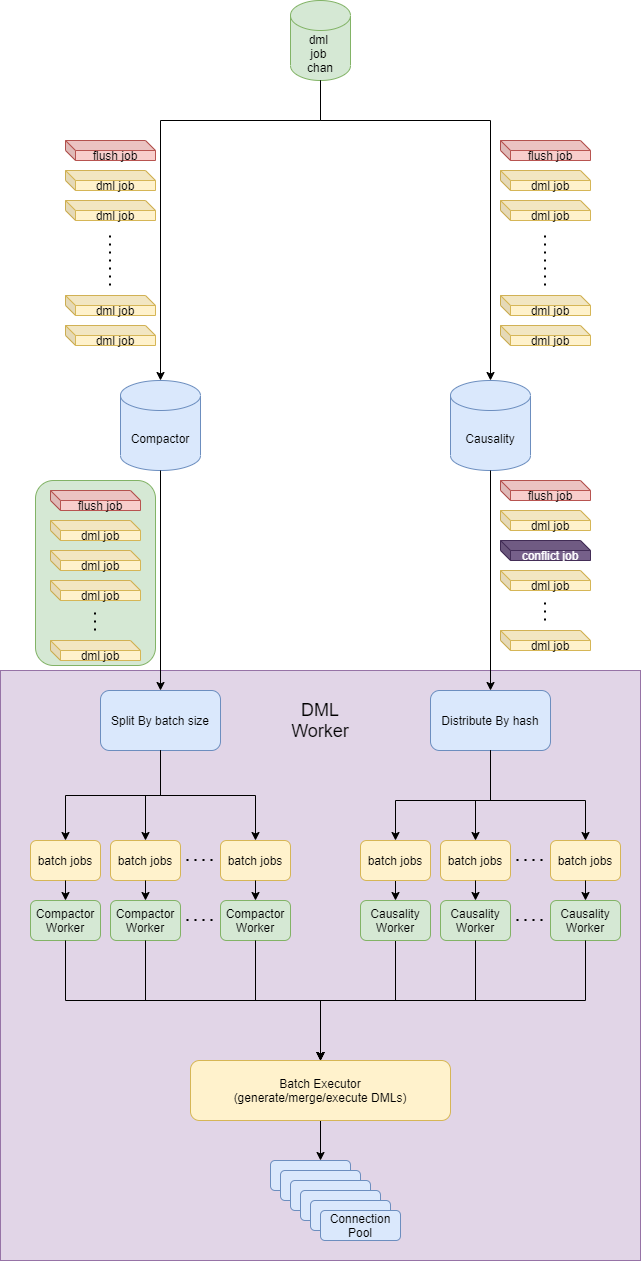
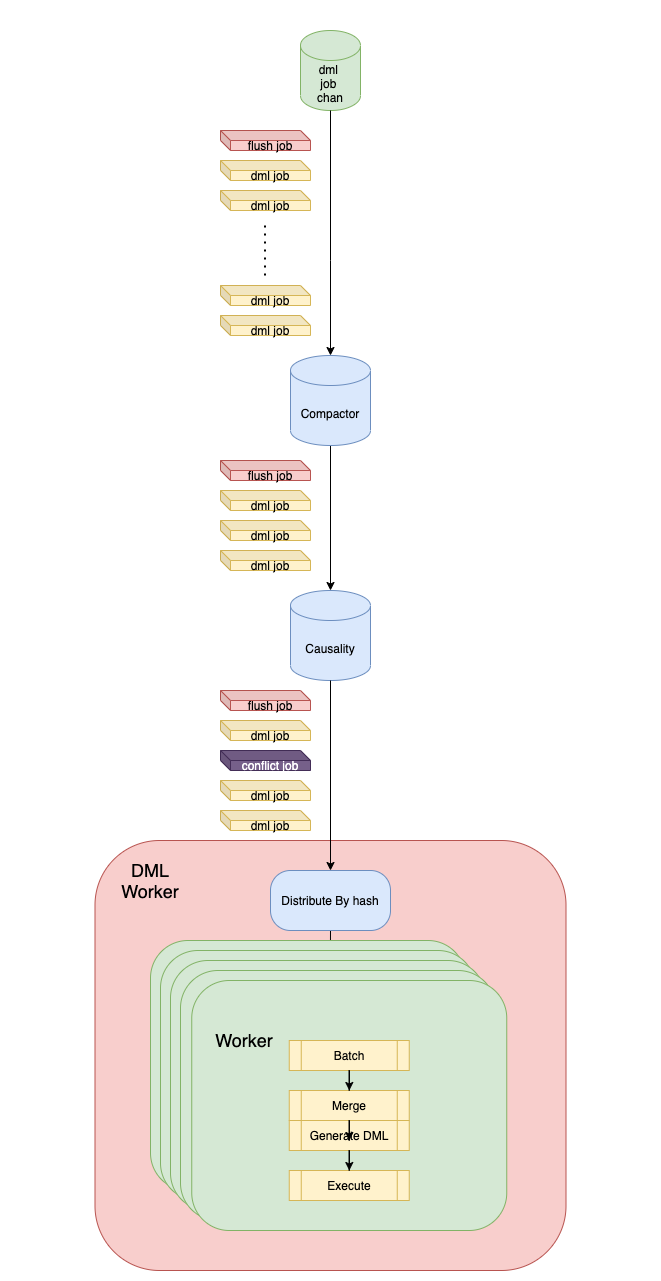
address comment

diff --git a/docs/RFCS/20211008_dml_execution_optimization.md b/docs/RFCS/20211008_dml_execution_optimization.md
@@ -14,9 +14,8 @@ When the user replicates sharding task and the upstream has high-write workload,
 Some users' write logic is: one INSERT statement followed by multiple UPDATE statements in a short time. We consider merging these DMLs into one INSERT statement, which can reduce the number of SQL synchronized to downstream.
 
 ```
-# Assuming that UPDATE statement does not update the primary/unique key.
-# If UPDATE statement update the primary/unique key, split it into one DELETE AND one INSERT statement.
-# For multiple unique keys, treat all primary keys and unique keys as one big primary key.
+# Assuming that UPDATE statement does not update the primary key. If no primary key, choose a UNIQUE NOT NULL Key.
+# If UPDATE statement update the primary key, split it into one DELETE AND one INSERT statement.
 # X means this situation will not happen.
 INSERT + INSERT => X
 INSERT + UPDATE => INSERT
@@ -29,7 +28,7 @@ DELETE + UPDATE => X
 DELETE + DELETE => X
 ```
 
-Now we can then compact all DMLs with the same primary and unique key to a single DML (INSERT/UPDATE/DELETE), which can be executed in parallel since they all have different primary and unique keys.
+Now we can then compact all DMLs with the same primary key to a single DML (INSERT/UPDATE/DELETE), and output them in the original order.
 
 > **Notice**
 >
@@ -70,25 +69,30 @@ By combining multiple update statements into a single `INSERT ON DUPLICATE UPDAT
 
 ### DML Flow
 
-Now, all the DMLs compacted by compactor can be executed in parallel since they all have different primary and unique keys. But since some tables do not have primary/unique keys to be compacted, we still need conflict detection.
+Now, all the DMLs compacted by compactor will be sent to causality, and then we can execute DMLs by hash in parallel.
 
 So the processing flow of DML will look like the following diagram.
 
 ![DML Flow](../media/flow.png)
 
-- Compactor compacts DMLs, output a ***batch*** of INSERT/DELETE/UPDATE jobs and flush job(receive from input channel)
-- Causality detects conflict for DMLs, output INSERT/DELETE/UPDATE jobs, conflict job(conflict detected) and flush job(receive from input channel) in ***streaming***
-- DMLWorker receives a group of compact jobs from Compactor, splits jobs to CompactorWorkers by batch size, executes them in parallel and then wait for next group of compact jobs.
-- DMLWorker receives DML jobs from Causality in streaming, distribute them to the CausalityWorkers by hash key, each CausalityWorker executes batch jobs and wait for next batch of causality jobs.
-- Executor called by CompactorWorker and CausalityWorker, it receives batch of jobs, get connection from connection pool and then generate, merge and execute DMLs to downstream.
+- Compactor compacts DMLs, output a ***batch*** of DML jobs in original order and flush job(receive from input channel)
+- Causality detects conflict for DMLs, output DML jobs, conflict job(conflict detected) and flush job(receive from input channel) in ***streaming***
+- DMLWorker receives DML jobs from Causality in streaming, distribute them to the Workers by hash key, each Worker executes batch jobs and wait for next batch of jobs.
 
 > **Notice**
 > 
-> The difference between CompactorWorker and CausalityWorker is that:
->  1. The number of CompactorWorker is determined by the number of compacted jobs and batch-size while the number of CausalityWorker is specific at the beginning.
->  2. CompactorWorker is in batch mode, which will start receiving the next batch of compacted jobs only after all of them have finished executing previous jobs. CausalityWorker is in streaming mode, which wait for the others only when receive conflict job, otherwise execute jobs individually.
->  3. CompactorWorker has no ID because each of them is stateless. CausalityWorker has ID since each of them should execute jobs with same hash key.
+> According to the principle of latency first, all components must give priority to output DML jobs when the downstream load is low, which means compactor should flush buffer when ouput channel is empty even if the buffer is not full and DML workers should execute jobs when previous jobs are executed even if the batch is not full. 
 > 
+
+## Configuration
+
+Two configuration items will be added to the task configuration file, and their default values will both be false.
+```toml
+syncers:
+  global:
+    compact: true
+    multiple-rows: true
+```
 
 ### Benchmark
 
